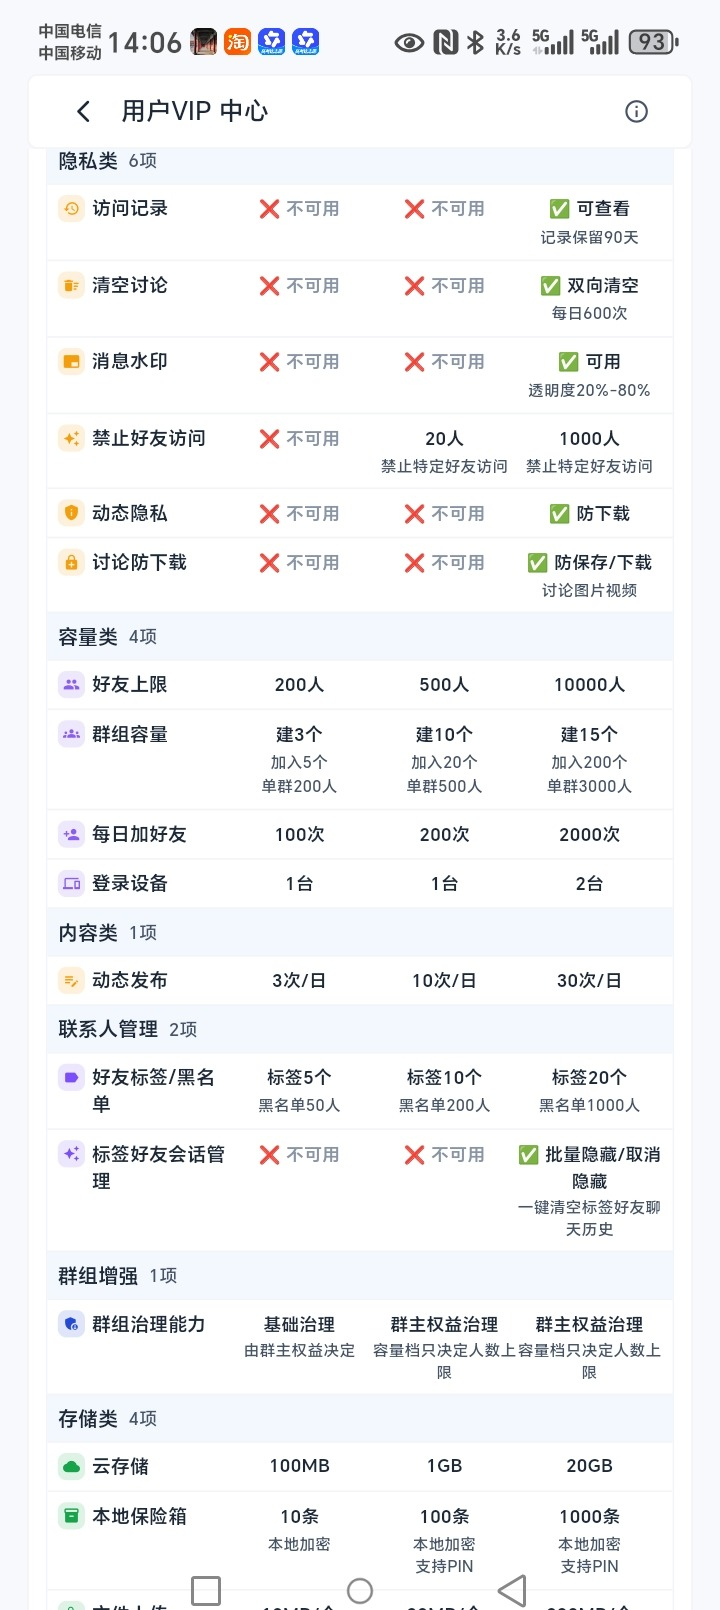
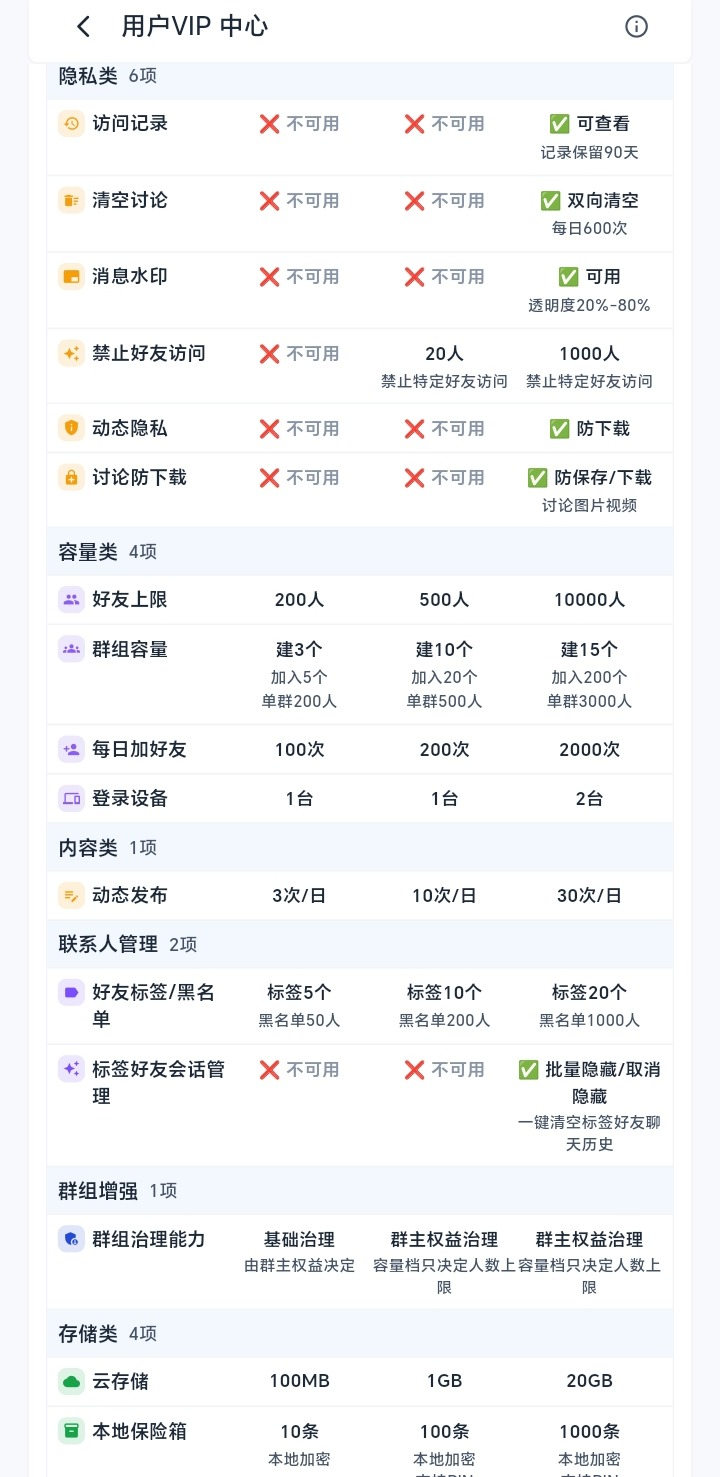
XIAODOU App 产品说明：截图裁切/重遮 + 福利截止日口径（单树快照发布）

diff --git a/PUBLISHING.md b/PUBLISHING.md
@@ -13,7 +13,7 @@
 | 3 | 可见范围 | **已拍板** | **公开仓** |
 | 4 | 许可证 | **已拍板** | **内容 = CC BY 4.0**（[`LICENSE`](./LICENSE)）；本目录无示例代码，故不设代码许可 |
 | 5 | 发布方式与差异清单签收人 | **已拍板** | 发布方式 = **单树快照**（`git commit-tree HEAD:app-place`，与姊妹仓同法：单一内容源、无二次拷贝）。差异清单签收人：`luwulei` |
-| 6 | **截图脱敏** | **已完成** | 原始真机截图取自**真实账号**，含真实昵称、头像、性别认证徽章、会员等级、离线时间、聊天内真人照片、IP 属地、集市真实店铺名与商品名。已按 `scripts/redact_app_screenshots.py` 的 SPEC 打码并**经程序校验**（判据=每个打码矩形只剩棋盘格调色板）。**原始图不得进本目录** |
+| 6 | **截图脱敏** | **已完成** | 原始真机截图取自**真实账号**：真实昵称、头像、性别认证徽章、会员等级、离线时间、聊天内真人照片、IP 属地、集市真实店铺名与商品名，以及**第三方品牌**（`订单` 里的咖啡券实拍）。已按 `scripts/redact_app_screenshots.py` 的 SPEC 打码并**经程序校验**（判据=每个打码矩形只剩棋盘格调色板）。**同时裁掉状态栏与系统导航条**（审查判据见 `docs/server/CMS福利草稿409修复与赠送口径公开面_打勾清单_v1.0.0.md` §4.1——「状态栏与浏览器 chrome」本身即审查项）。**原始图不得进本目录**；`订单` 曾因商品名全是「测试」被判 `usable:false`，现图已换、按第三方品牌重新打码 |
 
 ## 2. 公开面口径（与姊妹仓的差异）
 
@@ -32,7 +32,8 @@
 3. **「敬请期待」不许写成「已支持」**：iOS 与鸿蒙 NEXT 现在是「敬请期待」，写成已上线就是不实陈述。
 4. **不写死费率、限额与时效数字**：这类值随渠道与运行配置变化，一律**指向生效配置**（App 内页面 / 卖家中心）。本目录只保留**结构性事实**（如「群容量最大 3000 人」），不写分档明细。
 5. **不转载高危词清单**：姊妹仓 `xiaodou-market` 曾因 README **逐条转载《禁售目录》**被 Gitee 判定违规并返回 **HTTP 451**（解法=改成合规声明 + 指向产品页）。本目录**不复制任何禁售/高危类目清单**——合规表态指向产品页即可。
-6. **不写死活动截止日期**：福利活动的适用条件、赠送时长与截止日期都是**运行时可配置且版本化发布**的值（`WelfareCampaignConfig`，默认 `enabled=false`），而本目录是**静态文件**。写死日期 = 配置一改就变成不实陈述且无人收到通知。一律写「以 App 内活动页公示的当期内容为准」。
+6. **活动截止日期照写，但必须登记为人工同步项**（产品负责人 2026-09-29 拍板）：福利活动的条件与截止日期是**运行时可配置且版本化发布**的值（`WelfareCampaignConfig`，默认 `enabled=false`），而本目录是**静态文件**。产品负责人决定**对外明确写出截止日期**（现役 `2028-12-31`），代价是接受一条**人工同步义务**：配置改期 ⇒ 本目录同批改 + 重推公开仓。
+   **门禁怎么兜**：`DATE_CLAIM` 规则拦「截止/有效期 + 年月日」的数字，白名单只放行登记过的那一个完整字面量——日期一旦与登记值不符即红，把「改期忘改文档」从**静默漂移**变成**必须动门禁的事件**。
 7. **不使用绝对化与保证性表述**（如「一定到账」「绝不丢失」）。
 8. **不宣称平台是支付机构或资金托管方**：资金由持牌第三方支付机构清算。
 
@@ -46,7 +47,8 @@
 | 群类型三档权益（普通 / VIP / 超级群） | **截图内** | 同上 |
 | 权益矩阵全部额度（撤回时长、群发次数、好友上限、云存储容量、黑名单人数等） | **截图内** | VipContext 权益矩阵（`vip_benefit_constants`） |
 | 群黑名单上限 | **截图内** | 群管理生效配置 |
-| 福利活动条件与截止日期 | 正文（**不写日期**，指向 App 内活动页） | `WelfareCampaignConfig` 当期生效版本 |
+| 福利活动条件与**截止日期** | 正文 + `llms.txt`（**写死 `2028-12-31`**，见 §3 第 6 条） | `WelfareCampaignConfig` 当期生效版本 |
+| 注册赠送时长（12 个月 VIP / 女性认证 30 天 SVIP） | 正文 + `llms.txt` | 同上 |
 | 密码规则（8–20 位、≥3 类字符） | 正文 | RP `passwordPolicy`（唯一权威） |
 
 > 这张表把「配置变了要重推」从口号变成**可勾选的清单**。门禁能保证格式与禁词，但**保证不了这些值和运行态一致**，也**看不见图片**——那一半只能靠人。

diff --git a/README.md b/README.md
@@ -75,11 +75,13 @@ Android 版可在官网免费下载安装。**iOS 与鸿蒙 NEXT 敬请期待。
 
 ## 关于福利活动
 
-> **当前有注册赠送 12 个月 VIP 的活动。** 活动的适用条件、赠送时长与**截止日期以 App 内活动页公示的当期内容为准**——活动由运营侧按版本发布，条件可能调整。
+> **新用户注册即赠 12 个月 VIP，立即生效；活动截止 2028 年 12 月 31 日**（如有延长，以站内公告为准）。
+>
+> 女性性别认证审核通过另赠 30 天 SVIP，维持不变。
 
-这里**不写死截止日期**，原因和姊妹仓同源：活动时长是**运行时可配置**的值，而这份说明是静态文件。把日期抄进公开仓，配置一改这里就变成一句不实陈述，而且**不会有人收到通知**。
+活动由运营侧**按版本发布**，**默认关闭**——需发布并显式启用后才对外生效；不在活动窗口内注册的不发放。
 
-> ⚠ 活动**默认关闭**，需要运营发布并显式启用后才对外生效，且截止时间有明确窗口（不在窗口内的注册不发放）。
+> ⚠ **截止日期是人工同步项。** 本目录是静态文件，运营侧改期不会自动跟过来。配置变更时必须同批更新本目录并重推公开仓（清单见 [`PUBLISHING.md`](./PUBLISHING.md) §3.1）——门禁拦得住正文里的数字，但**拦不住截图里的旧日期**。已出现过一次「配置显示已启用、实际不发放」，故对外承诺前须确认活动**确实在发**。
 
 ## 能力边界（请务必知悉）
 
